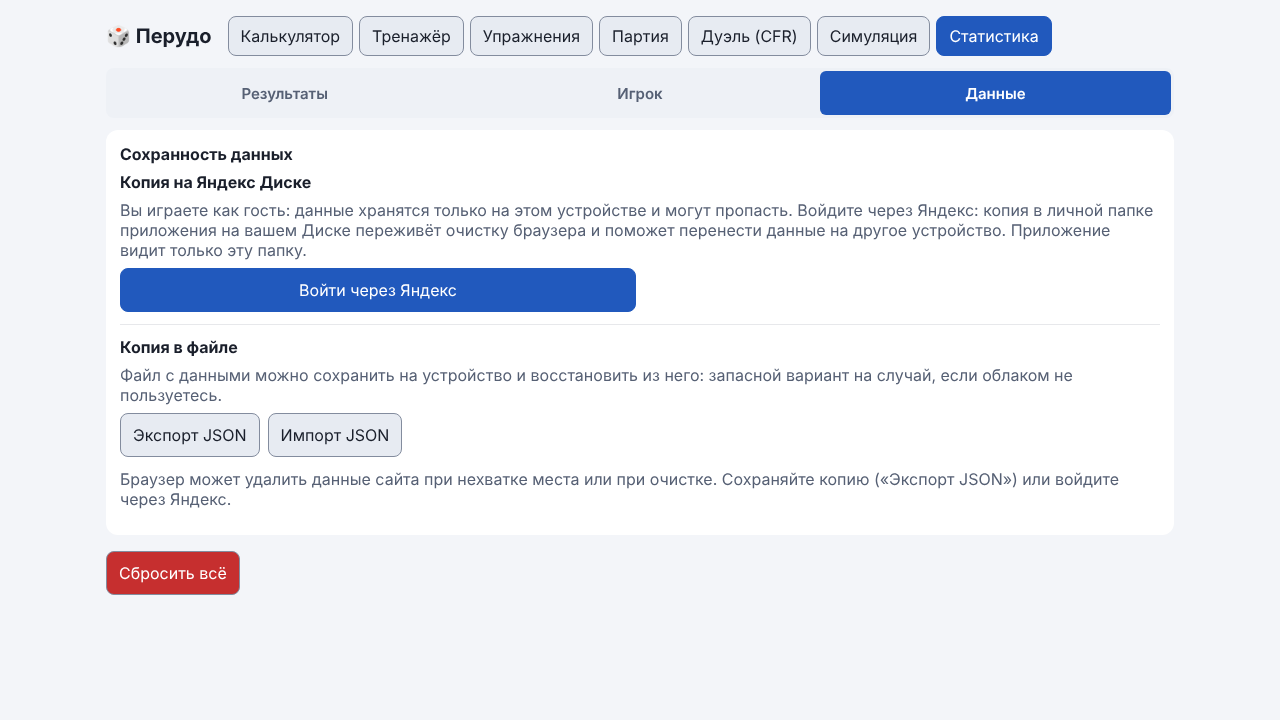
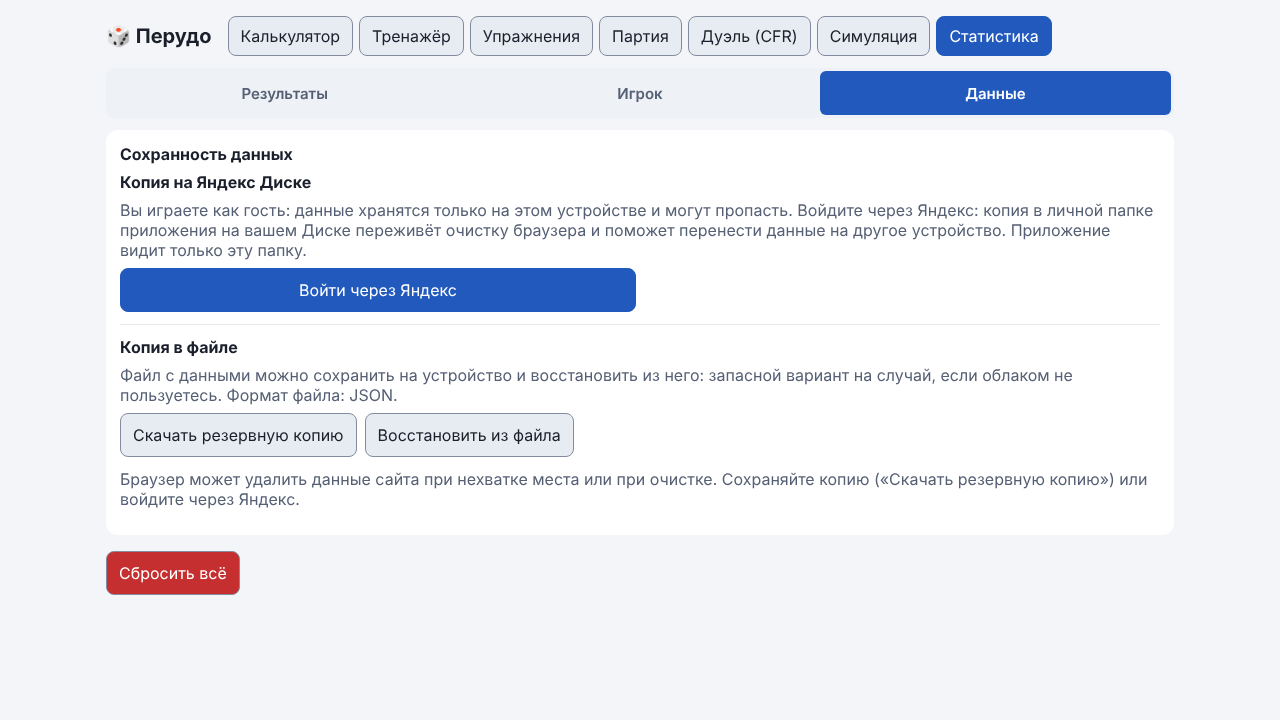
W1-07: кнопки резервной копии — «Скачать резервную копию» и «Восстановить из файла»

Changed region(s): [[0.125, 0.5194, 0.4375, 0.6417], [0.6875, 0.6417, 0.9062, 0.6722], [0.0938, 0.6722, 0.2188, 0.7028]]

diff --git a/docs/guide/data.html b/docs/guide/data.html
@@ -4,7 +4,7 @@
   <meta charset="utf-8">
   <meta name="viewport" content="width=device-width, initial-scale=1">
   <title>Ваши данные — руководство по Перудо</title>
-  <meta name="description" content="Как сохранить данные: копия на Яндекс Диске, экспорт и импорт файла, где хранятся данные, защита от очистки и сброс.">
+  <meta name="description" content="Как сохранить данные: копия на Яндекс Диске, резервная копия в файле, где хранятся данные, защита от очистки и сброс.">
   <script src="../../src/theme_boot.js"></script>
   <link rel="stylesheet" href="../../src/css/themes.css">
   <link rel="stylesheet" href="guide.css">
@@ -25,7 +25,7 @@
     <figure>
       <img src="../img/stats-data-desktop.png" alt="Статистика, часть «Данные»: копия на Яндекс Диске, копия в файле и кнопка «Сбросить всё»" loading="lazy">
     </figure>
-    <p>Часть «Данные» содержит блок «Копия на Яндекс Диске», блок «Копию в файле» (экспорт и импорт JSON) и подсказку про защиту от автоочистки браузера. В самом низу, отдельно, стоит <strong>«Сбросить всё»</strong>: она стирает статистику, очередь повторов, статистику Дуэли, память ботов и профиль игрока (с подтверждением).</p>
+    <p>Часть «Данные» содержит блок «Копия на Яндекс Диске», блок «Копия в файле» (кнопки «Скачать резервную копию» и «Восстановить из файла») и подсказку про защиту от автоочистки браузера. В самом низу, отдельно, стоит <strong>«Сбросить всё»</strong>: она стирает статистику, очередь повторов, статистику Дуэли, память ботов и профиль игрока (с подтверждением).</p>
 
     <h2>Где хранятся данные</h2>
     <ul>
@@ -43,7 +43,7 @@
 
     <h3>Как это устроено</h3>
     <ul>
-      <li><strong>Что и куда пишется.</strong> Один файл <code>perudo-backup.json</code> в личной папке приложения на вашем Диске: та же копия, что и «Экспорт JSON». Приложение получает право только на эту папку и остальные файлы Диска не видит. Данные не уходят ни на какой другой сервер: запросы идут из вашего браузера напрямую на Яндекс. Токен доступа хранится только на этом устройстве и в файл копии не входит.</li>
+      <li><strong>Что и куда пишется.</strong> Один файл <code>perudo-backup.json</code> в личной папке приложения на вашем Диске: та же копия, что скачивает кнопка «Скачать резервную копию». Приложение получает право только на эту папку и остальные файлы Диска не видит. Данные не уходят ни на какой другой сервер: запросы идут из вашего браузера напрямую на Яндекс. Токен доступа хранится только на этом устройстве и в файл копии не входит.</li>
       <li><strong>Когда пишется.</strong> После каждой законченной партии (не чаще раза в 30 секунд) и по кнопке <strong>«Сохранить сейчас»</strong>.</li>
       <li><strong>Другое устройство.</strong> После входа с другого устройства приложение сравнивает версии. Если на этом устройстве ничего не менялось, а в облаке копия новее, данные обновляются сами. Если версии разошлись, вы выбираете, какую оставить. Данные не теряются без вашего подтверждения.</li>
       <li><strong>Если связь не работает.</strong> Кнопка <strong>«Диагностика связи»</strong> собирает короткий отчёт (без токена и без ваших данных). Его можно скопировать и отправить в Issues на GitHub.</li>
@@ -53,18 +53,18 @@
 
     <h2>Копия в файле</h2>
     <ul>
-      <li><strong>Сохранить:</strong> «Статистика» → «Данные» → <strong>«Экспорт JSON»</strong>. Получится файл <code>perudo-backup-ГГГГ-ММ-ДД.json</code> со всеми данными: статистикой Тренажёра, очередью повторов, историей партий и разборами, статистикой Дуэли, настройками, профилем, прогрессом обучения, характерами и памятью ботов.</li>
-      <li><strong>Восстановить:</strong> «Статистика» → «Данные» → <strong>«Импорт JSON»</strong> и выберите файл. Приложение проверит файл и спросит подтверждение: текущие данные <strong>заменяются</strong> данными из копии, после чего страница перезагружается. Если файл чужой, повреждён или сделан более новой версией, вы получите понятное сообщение, а ваши данные не изменятся. Файлы старого формата (версия 1) тоже читаются.</li>
+      <li><strong>Сохранить:</strong> «Статистика» → «Данные» → <strong>«Скачать резервную копию»</strong>. Получится файл <code>perudo-backup-ГГГГ-ММ-ДД.json</code> со всеми данными: статистикой Тренажёра, очередью повторов, историей партий и разборами, статистикой Дуэли, настройками, профилем, прогрессом обучения, характерами и памятью ботов.</li>
+      <li><strong>Восстановить:</strong> «Статистика» → «Данные» → <strong>«Восстановить из файла»</strong> и выберите файл копии. Приложение проверит файл и спросит подтверждение: текущие данные <strong>заменяются</strong> данными из копии, после чего страница перезагружается. Если файл чужой, повреждён или сделан более новой версией, вы получите понятное сообщение, а ваши данные не изменятся. Файлы старого формата (версия 1) тоже читаются.</li>
       <li><strong>Начать с нуля:</strong> «Статистика» → «Данные» → <strong>«Сбросить всё»</strong>. Память ботов и записи решений тоже очищаются. Забыть только вашу игру можно кнопкой в <a href="game-settings.html">настройках партии</a>.</li>
     </ul>
 
     <h2>Проверка данных</h2>
-    <p>Всё, что приложение читает из браузера, из файла копии и из облака, проходит единую проверку: лишние и испорченные поля отбрасываются, счётчики приводятся к допустимым значениям. Если в файле часть записей повреждена, при импорте они пропускаются, а приложение сообщает, сколько их было. Остальные данные восстанавливаются. Файл отклоняется, только если из него не удалось прочитать ни одного раздела. Та же проверка применяется при экспорте и отправке в облако, поэтому повреждение не расходится по устройствам.</p>
+    <p>Всё, что приложение читает из браузера, из файла копии и из облака, проходит единую проверку: лишние и испорченные поля отбрасываются, счётчики приводятся к допустимым значениям. Если в файле часть записей повреждена, при восстановлении из файла они пропускаются, а приложение сообщает, сколько их было. Остальные данные восстанавливаются. Файл отклоняется, только если из него не удалось прочитать ни одного раздела. Та же проверка применяется при скачивании копии и отправке в облако, поэтому повреждение не расходится по устройствам.</p>
 
     <h2>Защита от автоочистки и напоминания</h2>
     <ul>
       <li>После первой и после пятой партии приложение просит браузер не удалять данные сайта само. Решает браузер, а в «Статистика» → «Данные» показано, защищено ли хранилище. Это не защита от ручной очистки: копия в файле остаётся главным способом сохранить данные.</li>
-      <li>После пятой партии в итоге партии появляется предложение сохранить копию. «Позже» откладывает его ещё на 20 партий, после экспорта оно молчит 30 партий. Когда напоминать, хранится отдельно и в копию JSON не входит.</li>
+      <li>После пятой партии в итоге партии появляется предложение сохранить копию. «Позже» откладывает его ещё на 20 партий, после скачивания копии оно молчит 30 партий. Когда напоминать, хранится отдельно и в копию не входит.</li>
     </ul>
     <nav class="pager" aria-label="Переход между страницами">
       <a class="prev" rel="prev" href="stats.html">← Статистика</a>

diff --git a/docs/guide/stats.html b/docs/guide/stats.html
@@ -41,7 +41,7 @@
 
     <h2>Игрок</h2>
     <p>Здесь задаются имя (до 20 символов) и аватар: эмодзи на выбор или своё фото. Фото обрезается до квадрата и сжимается до нескольких килобайт прямо в браузере, на сервер оно не уходит. Выбор аватара свёрнут: видны имя и текущий аватар, сетка открывается по кнопке «Изменить».</p>
-    <p>Имя и аватар видны за столом и в итогах партии вместо «Вы». Их можно менять и посреди партии. Они входят в «Экспорт JSON».</p>
+    <p>Имя и аватар видны за столом и в итогах партии вместо «Вы». Их можно менять и посреди партии. Они входят в резервную копию.</p>
 
     <h2>Оформление</h2>
     <p>Там же, на вкладке «Игрок», выбирается тема:</p>
@@ -50,7 +50,7 @@
       <li><strong>«Светлая»</strong> — действует по умолчанию;</li>
       <li><strong>«Тёмная»</strong>.</li>
     </ul>
-    <p>Выбор применяется сразу, хранится в браузере и входит в экспорт JSON и резервную копию. Тема ставится до отрисовки страницы, поэтому при загрузке ничего не мигает. Эту же тему использует и руководство. Стол с деревом и сукном выглядит одинаково в обеих темах.</p>
+    <p>Выбор применяется сразу, хранится в браузере и входит в резервную копию. Тема ставится до отрисовки страницы, поэтому при загрузке ничего не мигает. Эту же тему использует и руководство. Стол с деревом и сукном выглядит одинаково в обеих темах.</p>
     <figure>
       <img src="../img/settings-dark-desktop.png" alt="Экран подготовки партии в тёмной теме на компьютере" loading="lazy">
       <figcaption>Тёмная тема: экран подготовки партии.</figcaption>

diff --git a/tests/backup_labels.test.js b/tests/backup_labels.test.js
@@ -1,0 +1,36 @@
+import { describe, it } from 'node:test';
+import assert from 'node:assert/strict';
+import { readFileSync } from 'node:fs';
+import { BACKUP_SAVE_LABEL, BACKUP_RESTORE_LABEL } from '../src/backup_labels.js';
+import { describePersistence } from '../src/persistence.js';
+
+const root = new URL('../', import.meta.url);
+const read = (p) => readFileSync(new URL(p, root), 'utf8');
+const text = (html) => html.replace(/<[^>]+>/g, ' ').replace(/\s+/g, ' ');
+
+describe('названия кнопок резервной копии', () => {
+  it('кнопки в index.html называются по цели, а не по формату', () => {
+    const html = read('index.html');
+    assert.match(html, new RegExp(`<button id="stExport">${BACKUP_SAVE_LABEL}</button>`));
+    assert.match(html, new RegExp(`<button id="stImport">${BACKUP_RESTORE_LABEL}</button>`));
+    assert.doesNotMatch(html, /Экспорт JSON|Импорт JSON/);
+  });
+  it('JSON упомянут вторым уровнем: поясняющим текстом, а не названием кнопки', () => {
+    const html = read('index.html');
+    const sec = html.slice(html.indexOf('<b>Копия в файле</b>'), html.indexOf('id="stBackupMsg"'));
+    assert.match(sec, /JSON/);
+    assert.doesNotMatch(sec.match(/<button[^>]*>[^<]*<\/button>/g).join(''), /JSON/);
+  });
+  it('подсказка о сохранности ссылается на название кнопки', () => {
+    assert.ok(describePersistence(false).includes(`«${BACKUP_SAVE_LABEL}»`));
+  });
+  it('руководство называет обе кнопки теми же словами и не использует старые названия', () => {
+    const data = text(read('docs/guide/data.html'));
+    assert.ok(data.includes(`«${BACKUP_SAVE_LABEL}»`));
+    assert.ok(data.includes(`«${BACKUP_RESTORE_LABEL}»`));
+    for (const f of ['data.html', 'stats.html', 'game-settings.html']) {
+      assert.doesNotMatch(text(read(`docs/guide/${f}`)), /Экспорт JSON|Импорт JSON/, f);
+    }
+    assert.doesNotMatch(read('README.md'), /Экспорт JSON|Импорт JSON/);
+  });
+});

diff --git a/docs/guide/game.html b/docs/guide/game.html
@@ -62,7 +62,7 @@
       <li><strong>«Продолжить партию»</strong> возвращает ту же партию: игроков и их кубики, ставки раунда, журнал, «Разбор» и записанные решения. Если сейчас очередь бота, он сходит сам.</li>
       <li><strong>«Начать заново»</strong> стирает сохранённую партию, остаются обычные настройки.</li>
     </ul>
-    <p class="note">Если на экране было окно вскрытия кубиков, оно не восстанавливается: партия продолжается со следующего раунда, а проверка остаётся в журнале. Закончившаяся партия не сохраняется. Сохранённая партия старше 7 суток не предлагается. Она хранится только на этом устройстве и не входит в экспорт и в копию на Яндекс Диске.</p>
+    <p class="note">Если на экране было окно вскрытия кубиков, оно не восстанавливается: партия продолжается со следующего раунда, а проверка остаётся в журнале. Закончившаяся партия не сохраняется. Сохранённая партия старше 7 суток не предлагается. Она хранится только на этом устройстве и не входит в резервную копию в файле и на Яндекс Диске.</p>
     <nav class="pager" aria-label="Переход между страницами">
       <a class="prev" rel="prev" href="drill.html">← Упражнения</a>
       <a class="next" rel="next" href="game-settings.html">Настройки партии и боты →</a>

diff --git a/docs/guide/game-settings.html b/docs/guide/game-settings.html
@@ -61,7 +61,7 @@
 
     <h2>Запоминание настроек</h2>
     <p>Когда вы нажимаете «Начать партию», приложение сохраняет все эти настройки. После перезагрузки страницы они возвращаются на место, и достаточно одной кнопки. Если поменять поля, но не начать партию, прежние настройки сохранятся.</p>
-    <p>Кнопка <strong>«Сбросить к стандартным настройкам»</strong> под «Начать партию» появляется, когда настройки отличаются от стандартных: она возвращает значения по умолчанию и стирает сохранённое. Настройки хранятся в браузере и входят в экспорт и в резервную копию.</p>
+    <p>Кнопка <strong>«Сбросить к стандартным настройкам»</strong> под «Начать партию» появляется, когда настройки отличаются от стандартных: она возвращает значения по умолчанию и стирает сохранённое. Настройки хранятся в браузере и входят в резервную копию.</p>
     <p class="note">Настройки применяются к <em>новой</em> партии. Во время игры их можно открыть значком ⚙ (на компьютере это вкладка справа от стола), но изменения заработают после нажатия «Начать новую партию».</p>
 
     <h2>Боты</h2>

diff --git a/src/persistence.js b/src/persistence.js
@@ -2,7 +2,7 @@
 //
 // Модуль чистый: получает объект storage (navigator.storage) аргументом.
 // Это не защита от ручной очистки данных пользователем; она лишь снижает риск, что браузер
-// удалит данные при нехватке места. Поэтому «Экспорт JSON» остаётся главным способом сохранить данные.
+// удалит данные при нехватке места. Поэтому «Скачать резервную копию» остаётся главным способом сохранить данные.
 
 /**
  * @param {{persist?: () => Promise<boolean>, persisted?: () => Promise<boolean>} | null | undefined} storage
@@ -42,7 +42,7 @@ export function describePersistence(persisted, { cloud = false } = {}) {
   if (persisted === false) {
     return cloud
       ? 'Браузер может удалить данные сайта при нехватке места или при очистке, но их можно вернуть из копии на Яндекс Диске.'
-      : 'Браузер может удалить данные сайта при нехватке места или при очистке. Сохраняйте копию («Экспорт JSON») или войдите через Яндекс.';
+      : 'Браузер может удалить данные сайта при нехватке места или при очистке. Сохраняйте копию («Скачать резервную копию») или войдите через Яндекс.';
   }
   return null;
 }

diff --git a/tests/persistence.test.js b/tests/persistence.test.js
@@ -36,13 +36,13 @@ describe('requestPersistence', () => {
 describe('describePersistence: совет зависит от входа в Яндекс', () => {
   it('без входа: файл или вход через Яндекс', () => {
     const t = describePersistence(false);
-    assert.match(t, /Экспорт JSON/);
+    assert.match(t, /Скачать резервную копию/);
     assert.match(t, /войдите через Яндекс/);
   });
   it('со входом: вернуть данные можно из облака, про файл не настаивает', () => {
     const t = describePersistence(false, { cloud: true });
     assert.match(t, /Яндекс Диске/);
-    assert.doesNotMatch(t, /Экспорт JSON/);
+    assert.doesNotMatch(t, /Скачать резервную копию/);
   });
   it('защищённое хранилище и неизвестное состояние от входа не зависят', () => {
     assert.equal(describePersistence(true, { cloud: true }), describePersistence(true));
@@ -60,7 +60,7 @@ describe('readPersisted / describePersistence', () => {
   });
   it('тексты для показа', () => {
     assert.match(describePersistence(true), /защищено/);
-    assert.match(describePersistence(false), /Экспорт JSON/);
+    assert.match(describePersistence(false), /Скачать резервную копию/);
     assert.equal(describePersistence(null), null);
     assert.equal(describePersistence(undefined), null);
   });

diff --git a/index.html b/index.html
@@ -806,10 +806,10 @@
             <div id="plCloud" class="data-section"></div>
             <div class="data-section">
               <b>Копия в файле</b>
-              <p class="muted">Файл с данными можно сохранить на устройство и восстановить из него: запасной вариант на случай, если облаком не пользуетесь.</p>
+              <p class="muted">Файл с данными можно сохранить на устройство и восстановить из него: запасной вариант на случай, если облаком не пользуетесь. Формат файла: JSON.</p>
               <div class="stats-actions">
-                <button id="stExport">Экспорт JSON</button>
-                <button id="stImport">Импорт JSON</button>
+                <button id="stExport">Скачать резервную копию</button>
+                <button id="stImport">Восстановить из файла</button>
                 <input id="stImportFile" type="file" accept="application/json,.json" hidden aria-label="Файл копии данных">
               </div>
               <div id="stBackupMsg" class="muted" role="status" aria-live="polite"></div>

diff --git a/tests/e2e/stats.spec.js b/tests/e2e/stats.spec.js
@@ -176,7 +176,7 @@ test.describe('«Данные»: единый блок «Сохранность 
     await page.goto('/');
     await goTab(page, 'stats');
     await openStatsTab(page, 'data');
-    await expect(page.locator('#stPersist')).toContainText('Экспорт JSON');
+    await expect(page.locator('#stPersist')).toContainText('Скачать резервную копию');
     await expect(page.locator('#stPersist')).toContainText('войдите через Яндекс');
   });
 
@@ -188,7 +188,7 @@ test.describe('«Данные»: единый блок «Сохранность 
     await goTab(page, 'stats');
     await openStatsTab(page, 'data');
     await expect(page.locator('#stPersist')).toContainText('Яндекс Диске');
-    await expect(page.locator('#stPersist')).not.toContainText('Экспорт JSON');
+    await expect(page.locator('#stPersist')).not.toContainText('Скачать резервную копию');
     page.once('dialog', (d) => d.accept());
     await page.locator('#clLogout').click();
     await expect(page.locator('#stPersist')).toContainText('войдите через Яндекс');

diff --git a/src/ui/player_card.js b/src/ui/player_card.js
@@ -102,7 +102,7 @@ export function setupPlayerCard({ onChange } = {}) {
 
   host.innerHTML =
     '<b>Игрок</b>' +
-    '<p class="muted">Имя и аватар видны за столом и в итогах партии. Хранятся на этом устройстве и входят в «Экспорт JSON».</p>' +
+    '<p class="muted">Имя и аватар видны за столом и в итогах партии. Хранятся на этом устройстве и входят в резервную копию.</p>' +
     '<div class="player-head">' +
     '<span id="plAvatar" class="player-avatar" aria-hidden="true"></span>' +
     '<label class="player-name-field" for="plName">Имя' +

diff --git a/src/backup_labels.js b/src/backup_labels.js
@@ -1,0 +1,7 @@
+// backup_labels.js — названия кнопок резервной копии в файле. Чистый модуль: без DOM.
+//
+// Кнопки названы через цель пользователя, а не через формат: JSON упомянут только вторым уровнем текста.
+// Тексты подсказок ссылаются на эти же слова; тест сверяет их с index.html и страницей руководства.
+
+export const BACKUP_SAVE_LABEL = 'Скачать резервную копию';
+export const BACKUP_RESTORE_LABEL = 'Восстановить из файла';

diff --git a/src/ui/backup_reminder.js b/src/ui/backup_reminder.js
@@ -25,7 +25,7 @@ export function markBackupExported() {
 
 /**
  * Кнопки напоминания внутри итога партии.
- * @param {() => void} save скачивает копию (та же, что «Экспорт JSON»)
+ * @param {() => void} save скачивает копию (та же, что «Скачать резервную копию»)
  */
 export function setupBackupReminder(save) {
   $('#gResultCard')?.addEventListener('click', (e) => {
